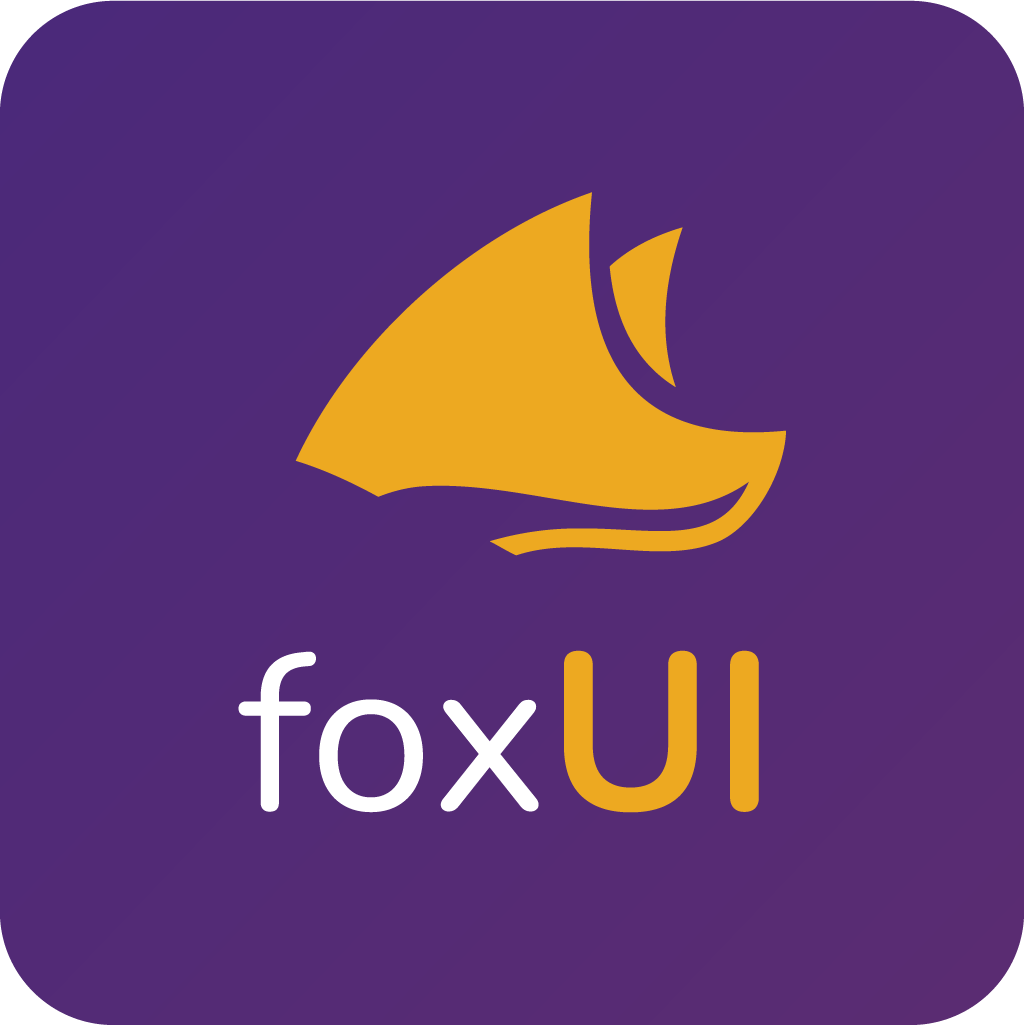
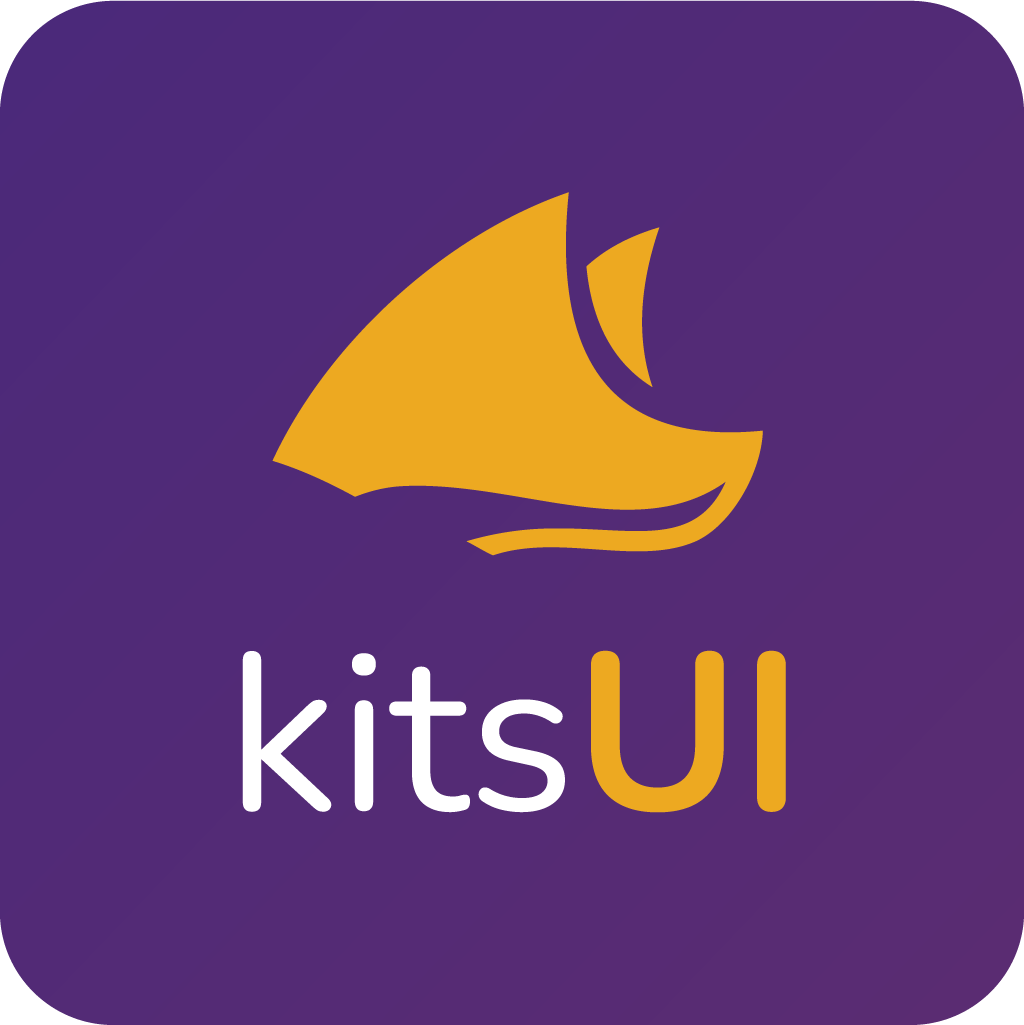
Renames project from FoxUI to kitsUI
Updates project name from FoxUI to kitsUI across the repository.

This change reflects a shift in project focus and branding.
All references, including in-app names, bundle identifiers,
and documentation, have been updated.

diff --git a/legacy-packages/components/src/devsupport/components/TouchableWeb.tsx b/legacy-packages/components/src/devsupport/components/TouchableWeb.tsx
@@ -8,7 +8,7 @@
  *
  * @author Tay Fox <tay@vedla.ca>
  * @description: A React Native implementation of Eva Design System's Button component.
- * @since foxUI 1.0.0
+ * @since kitsUI 1.0.0
  */
 
 import React from 'react';
@@ -32,8 +32,8 @@ export interface TouchableBaseWebProps extends TouchableWithoutFeedbackProps {
   onBlur?: (e: NativeSyntheticEvent<TargetedEvent>) => void;
 }
 /**
- * Additional props introduced in MeowUI. v0.1.0
- * @since foxUI 1.0.0
+ * Additional props introduced in kitsUI. v0.1.0
+ * @since kitsUI 1.0.0
  */
 export interface TouchableWebProps extends TouchableBaseWebProps {
   className?: string;

diff --git a/packages/components/src/Icon/IconRegistryService.ts b/packages/components/src/Icon/IconRegistryService.ts
@@ -8,13 +8,10 @@
  *
  * @author Tay Fox <tay@vedla.ca>
  * @description: A React Native implementation of Eva Design System's Button component.
- * @since foxUI 1.0.0
+ * @since kitsUI 1.0.0
  */
 
-import {
-  IconPack,
-  IconProvider,
-} from './types';
+import { IconPack, IconProvider } from './types';
 
 function throwPackNotFoundError(name: string): void {
   const docRoot = 'https://akveo.github.io/react-native-ui-kitten/docs';

diff --git a/packages/components/src/Touchable/types.ts b/packages/components/src/Touchable/types.ts
@@ -15,8 +15,8 @@ export interface TouchableBaseWebProps extends TouchableWithoutFeedbackProps {
   onBlur?: (e: NativeSyntheticEvent<TargetedEvent>) => void;
 }
 /**
- * Additional props introduced in MeowUI. v0.1.0
- * @since foxUI 1.0.0
+ * Additional props introduced in kitsUI. v0.1.0
+ * @since kitsUI 1.0.0
  */
 export interface TouchableWebProps extends TouchableBaseWebProps {
   className?: string;

diff --git a/packages/components/src/Icon/types.ts b/packages/components/src/Icon/types.ts
@@ -8,15 +8,12 @@
  *
  * @author Tay Fox <tay@vedla.ca>
  * @description: A React Native implementation of Eva Design System's Button component.
- * @since foxUI 1.0.0
+ * @since kitsUI 1.0.0
  */
 
 import React from 'react';
 
-import {
-  Animated,
-  View,
-} from 'react-native';
+import { Animated, View } from 'react-native';
 
 import { AnimationConfig } from '@fox-ui/utils';
 

diff --git a/packages/components/src/shared/types.ts b/packages/components/src/shared/types.ts
@@ -7,7 +7,7 @@
  *
  * @author Tay Fox <tay@vedla.ca>
  * @description: A React Native implementation of Eva Design System's Button component.
- * @since foxUI 1.0.0
+ * @since kitsUI 1.0.0
  */
 
 export type LiteralUnion<T extends U, U = string> = T | (U & {});

diff --git a/packages/components/src/Button/types.ts b/packages/components/src/Button/types.ts
@@ -8,7 +8,7 @@
  *
  * @author Tay Fox <tay@vedla.ca>
  * @description: A React Native implementation of Eva Design System's Button component.
- * @since foxUI 1.0.0
+ * @since kitsUI 1.0.0
  */
 
 import React, { ReactElement } from 'react';

diff --git a/packages/components/src/Icon/IconAnimation.ts b/packages/components/src/Icon/IconAnimation.ts
@@ -8,7 +8,7 @@
  *
  * @author Tay Fox <tay@vedla.ca>
  * @description: A React Native implementation of Eva Design System's Button component.
- * @since foxUI 1.0.0
+ * @since kitsUI 1.0.0
  */
 
 import { ViewStyle } from 'react-native';

diff --git a/legacy-packages/components/src/devsupport/components/TouchableWithoutFeedback.tsx b/legacy-packages/components/src/devsupport/components/TouchableWithoutFeedback.tsx
@@ -8,7 +8,7 @@
  *
  * @author Tay Fox <tay@vedla.ca>
  * @description: A React Native implementation of Eva Design System's Button component.
- * @since foxUI 1.0.0
+ * @since kitsUI 1.0.0
  */
 
 import React from 'react';

diff --git a/legacy-packages/components/src/devsupport/components/utils/MeasureElement.tsx b/legacy-packages/components/src/devsupport/components/utils/MeasureElement.tsx
@@ -8,7 +8,7 @@
  *
  * @author Tay Fox <tay@vedla.ca>
  * @description: A React Native implementation of Eva Design System's Button component.
- * @since foxUI 1.0.0
+ * @since kitsUI 1.0.0
  */
 
 import React from 'react';

diff --git a/packages/components/src/Button/Button.tsx b/packages/components/src/Button/Button.tsx
@@ -8,7 +8,7 @@
  *
  * @author Tay Fox <tay@vedla.ca>
  * @description: A React Native implementation of Eva Design System's Button component.
- * @since foxUI 1.0.0
+ * @since kitsUI 1.0.0
  */
 
 import React from 'react';

diff --git a/packages/components/src/Icon/IconRegistry.tsx b/packages/components/src/Icon/IconRegistry.tsx
@@ -8,7 +8,7 @@
  *
  * @author Tay Fox <tay@vedla.ca>
  * @description: A React Native implementation of Eva Design System's Button component.
- * @since foxUI 1.0.0
+ * @since kitsUI 1.0.0
  */
 
 import React from 'react';

diff --git a/packages/components/src/List/List.tsx b/packages/components/src/List/List.tsx
@@ -8,7 +8,7 @@
  *
  * @author Tay Fox <tay@vedla.ca>
  * @description: A React Native implementation of Eva Design System's Button component.
- * @since foxUI 1.0.0
+ * @since kitsUI 1.0.0
  */
 
 import React from 'react';
